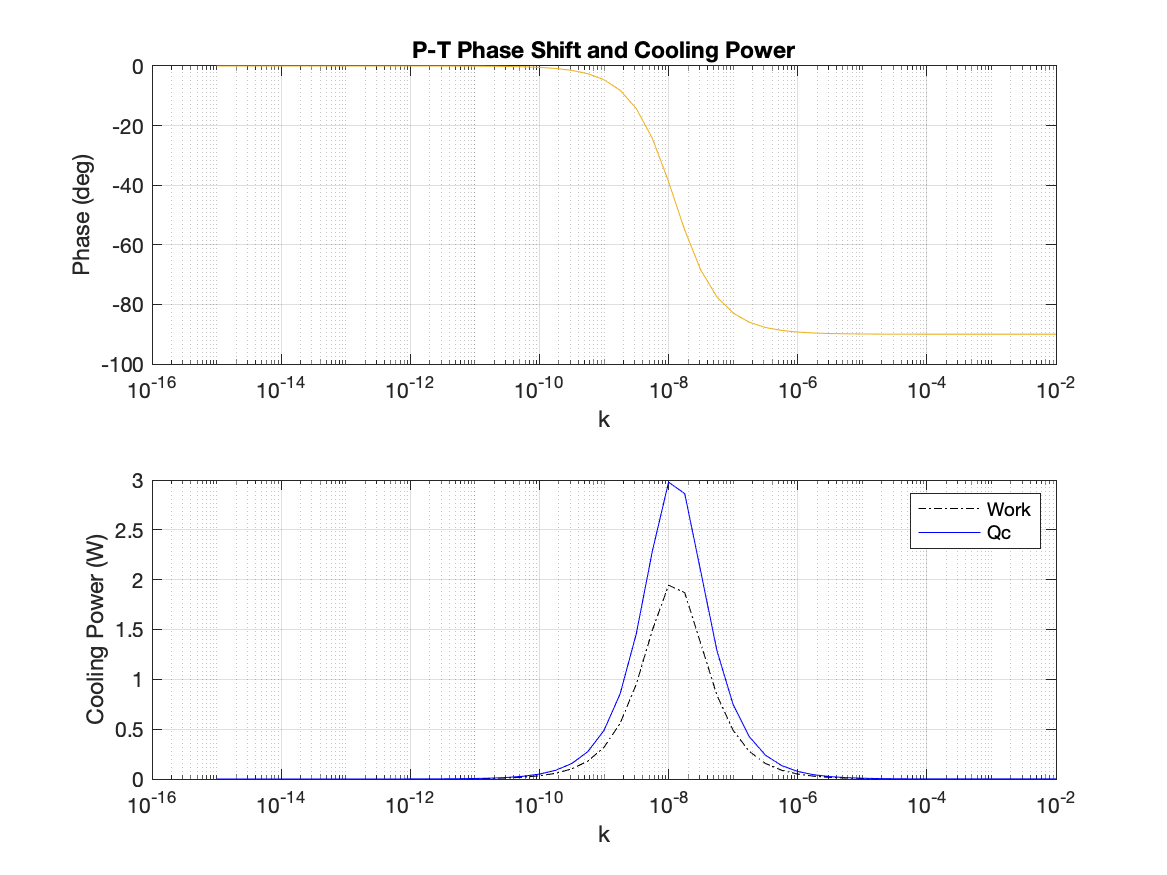
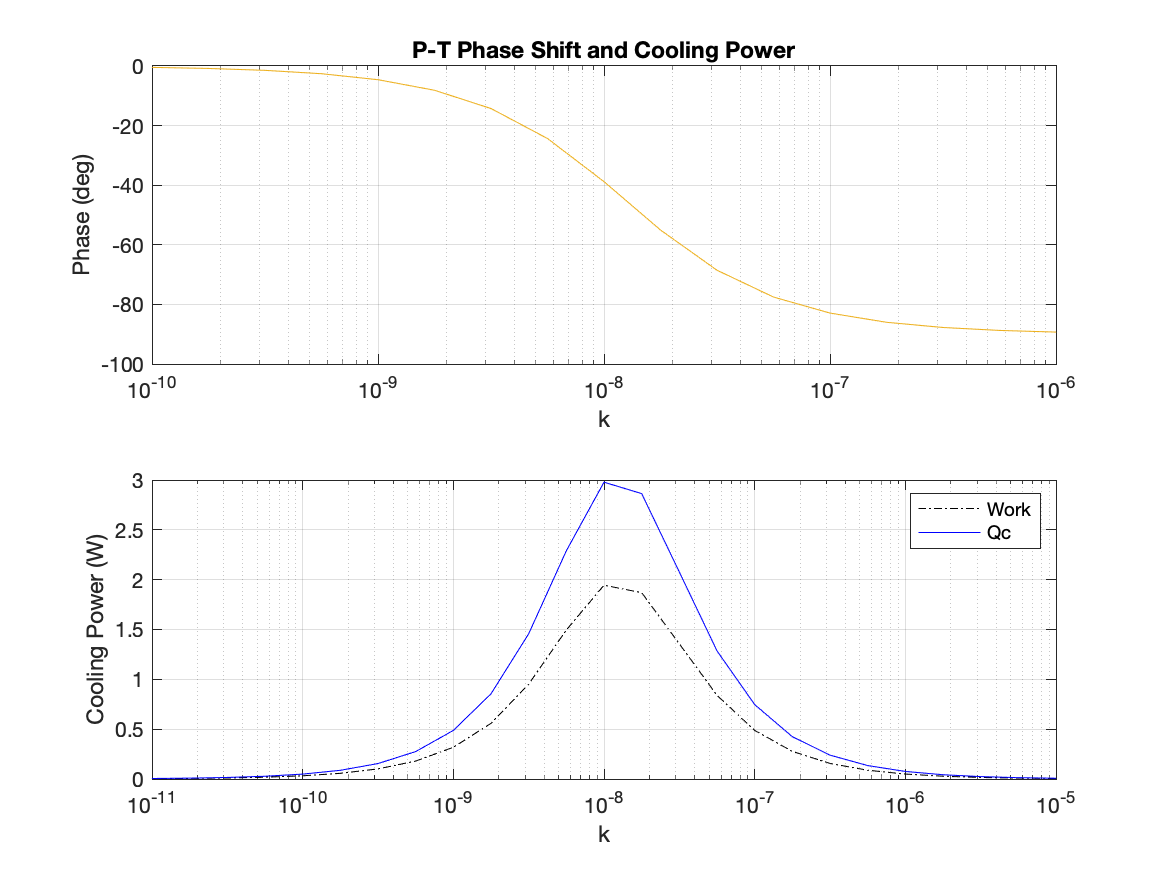
feat: improved plots

diff --git a/src/PTRanalysis-matlab/improvePlot.m b/src/PTRanalysis-matlab/improvePlot.m
@@ -1,0 +1,111 @@
+function [] = improvePlot()
+    %%%%%%%%%%%%%%%%%%%%%%%%%%%%%%%%%%%%%%%%%%%%%%%%%%%%%%%%%%%%%%%%%%%%%%%
+    % Plot parameters
+    % MATLAB treats mac and PC displays differently which can create
+    % weird looking graphs. Here we handle system differences
+
+    if ismac
+        plot_width_in_px = 800;
+        plot_height_in_px = 800;
+        marker_size=15;
+        marker_line_width=2.5;
+        box_thickness = 3;
+        axis_tick_font_size = 24;
+        axis_label_font_size = 24;
+        legend_font_size = 20;
+        error_bar_cap_size = 15;
+    else % (ispc || isunix)
+        plot_width_in_px = 600;
+        plot_height_in_px = 600;
+        marker_size=10;
+        marker_line_width=2.0;
+        box_thickness = 2;
+        axis_tick_font_size = 18;
+        axis_label_font_size = 18;
+        legend_font_size = 16;
+        error_bar_cap_size = 10;
+    end
+    
+    marker_outline = 'matching'; % could be 'black' or 'matching'
+
+    %%%%%%%%%%%%%%%%%%%%%%%%%%%%%%%%%%%%%%%%%%%%%%%%%%%%%%%%%%%%%%%%%%%%%%%
+
+    % Use h as handle for current figure
+    hFig = gcf;                    
+    % Change figure background colour to white
+    set(hFig, 'Color', 'white');
+
+    % Make the figure bigger
+    set(hFig, 'rend', 'painters', 'Units', 'pixels', 'pos', ...
+        [100 100 plot_width_in_px plot_height_in_px]);
+
+    % Grab the axes handle(s)
+    axis_handles=findobj(hFig,'type','axe');
+
+    % Iterate over all axes handle(s), this is useful if there are subplots
+    for i = 1:length(axis_handles)
+        ax = axis_handles(i);
+
+        % Change default font size (tick labels, legend, etc.)
+        set(ax, 'FontSize', axis_tick_font_size, 'FontName', 'Arial', 'LineWidth', box_thickness);
+        
+        set(ax, 'Box', 'on');
+
+        % Change font size for axis text labels
+        set(get(ax, 'XLabel'),'FontSize', axis_label_font_size, 'FontWeight', 'Bold');
+        set(get(ax, 'YLabel'),'FontSize', axis_label_font_size, 'FontWeight', 'Bold');
+        
+        try % try statement to avoid error with categorical axes
+        ax.XRuler.Exponent = 0; % Remove exponential notation from the X axis
+        ax.YRuler.Exponent = 0; % Remove exponential notation from the Y axis
+        catch
+        end
+        
+    end
+    
+    % Find all the lines, and markers
+    LineH = findobj(hFig, 'type', 'line', '-or', 'type', 'errorbar');
+
+    if(~isempty(LineH))
+        for i=1:length(LineH) % Iterate over all lines in the plot
+            % Decide what color for the marker edges
+            this_line_color = get(LineH(i),'color');
+            if strcmp(marker_outline, 'black')
+                marker_outline_color = 'black';
+            elseif strcmp(marker_outline, 'matching')
+                marker_outline_color = this_line_color;
+            else
+                marker_outline_color = 'black';
+            end
+
+            % If the LineWidth has not been customized, then change it
+            if (get(LineH(i), 'LineWidth') <= 1.0)
+                set(LineH(i), 'LineWidth', marker_line_width)
+            end
+            % Change lines and markers if they exist on the plot
+            set(LineH(i),   'MarkerSize', marker_size, ...
+                'MarkerEdgeColor', marker_outline_color, ...
+                'MarkerFaceColor', this_line_color);
+        end
+    end
+
+    % Find and change the error bars
+    LineH = findobj(hFig, 'type', 'errorbar');
+    if(~isempty(LineH))
+        for i=1:length(LineH) % Iterate over all lines in the plot
+            LineH(i).CapSize=error_bar_cap_size;
+%             LineH(i).Color = [0 0 0]; % Set all error bars to black
+
+        end
+    end
+
+    % Find the legend, and if there is one, change it  
+    h = get(hFig,'children');
+    for k = 1:length(h)
+        if strcmpi(get(h(k),'Tag'),'legend')
+            set(h(k), 'FontSize', legend_font_size, 'location', 'best');
+            break;
+        end
+    end
+
+end

diff --git a/src/PTRanalysis-matlab/PTRanalysis.m b/src/PTRanalysis-matlab/PTRanalysis.m
@@ -30,10 +30,10 @@ lc = 0.7*TOSI;
 Ac = pi*dc^2/4;
 Vc = Ac*lc;
 % Pulse Tube
-dpt = 0.81*TOSI;
-lpt = 6*TOSI;
-Apt = pi*dpt^2/4;
-Vpt = Apt*lpt;
+dpt = 0.81*TOSI
+lpt = 6*TOSI
+Apt = pi*dpt^2/4
+Vpt = Apt*lpt
 % Warm HEX
 dh = 0.811*TOSI;
 lh = 0.7*TOSI;
@@ -130,6 +130,7 @@ subplot(2,1,1)
 semilogx(k,phase);xlabel('k');ylabel('Phase (deg)');
 grid on
 title("P-T Phase Shift and Cooling Power")
+xlim([1e-10, 1e-6])
 hold on
 subplot(2,1,2)
 semilogx(k,-Work,'k-.');
@@ -139,7 +140,29 @@ legend('Work','Qc')
 xlabel('k');
 ylabel('Cooling Power (W)');
 grid on
+xlim([1e-11, 1e-5])
 saveas(gcf, "phase_and_cooling.png")
+
+figure(2)
+semilogx(k,phase);xlabel('k');ylabel('Phase (deg)');
+grid on
+title("P-T Phase Shift")
+xlim([1e-10, 1e-6])
+improvePlot
+saveas(gcf, "phase.png")
+
+figure(3)
+semilogx(k,-Work,'k-.');
+hold on
+semilogx(k,Qc,'b');
+legend('Work','Qc')
+xlabel('k');
+ylabel('Cooling Power (W)');
+grid on
+xlim([1e-11, 1e-5])
+title("Cooling Power Ratio f(k)")
+improvePlot
+saveas(gcf, "cool_power.png")
 
 % Valve sizing and Cv
 % Based on Swagelok & Parker references
